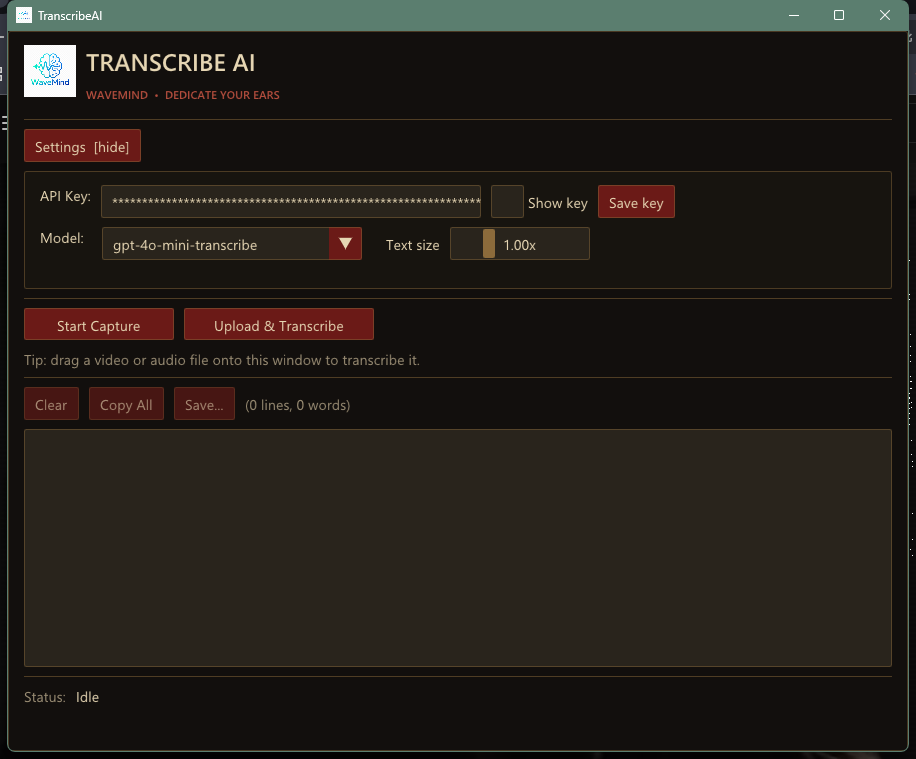
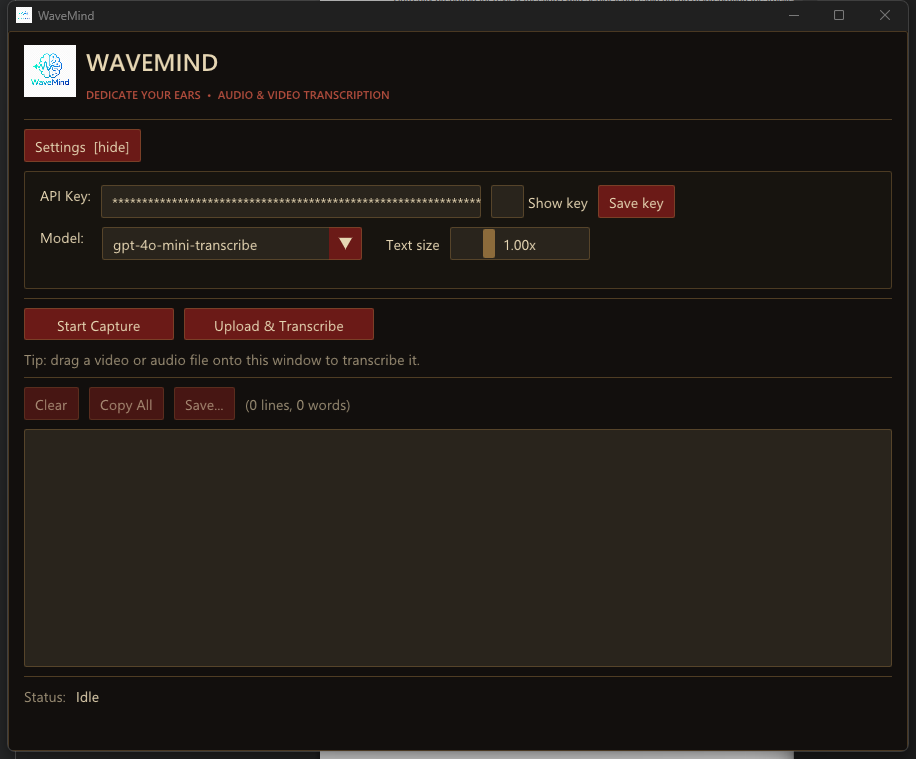
Rename app from TranscribeAI to WaveMind
- CMake project/target now builds WaveMind.exe
- Window title, in-app header and ImGui ids updated
- DPAPI key store moves to %APPDATA%\WaveMind\key.dat
- vcpkg manifest name, README, BUILD.md and screenshot updated

diff --git a/src/main.cpp b/src/main.cpp
@@ -395,7 +395,7 @@ int WINAPI WinMain(HINSTANCE, HINSTANCE, LPSTR, int) {
     glfwWindowHint(GLFW_CONTEXT_VERSION_MINOR, 3);
     glfwWindowHint(GLFW_OPENGL_PROFILE, GLFW_OPENGL_CORE_PROFILE);
 
-    GLFWwindow* window = glfwCreateWindow(900, 720, "TranscribeAI", nullptr, nullptr);
+    GLFWwindow* window = glfwCreateWindow(900, 720, "WaveMind", nullptr, nullptr);
     if (!window) {
         glfwTerminate();
         curl_global_cleanup();
@@ -525,7 +525,7 @@ int WINAPI WinMain(HINSTANCE, HINSTANCE, LPSTR, int) {
         ImGuiViewport* vp = ImGui::GetMainViewport();
         ImGui::SetNextWindowPos(vp->WorkPos);
         ImGui::SetNextWindowSize(vp->WorkSize);
-        ImGui::Begin("TranscribeAI", nullptr,
+        ImGui::Begin("WaveMind", nullptr,
                      ImGuiWindowFlags_NoDecoration |
                      ImGuiWindowFlags_NoMove |
                      ImGuiWindowFlags_NoSavedSettings |
@@ -541,11 +541,11 @@ int WINAPI WinMain(HINSTANCE, HINSTANCE, LPSTR, int) {
             }
             ImGui::BeginGroup();
             if (font_title) ImGui::PushFont(font_title);
-            ImGui::TextUnformatted("TRANSCRIBE AI");
+            ImGui::TextUnformatted("WAVEMIND");
             if (font_title) ImGui::PopFont();
             if (font_sub) ImGui::PushFont(font_sub);
             ImGui::PushStyleColor(ImGuiCol_Text, ImVec4(0.70f, 0.30f, 0.24f, 1.0f));
-            ImGui::TextUnformatted("WAVEMIND  \xE2\x80\xA2  DEDICATE YOUR EARS");
+            ImGui::TextUnformatted("DEDICATE YOUR EARS  \xE2\x80\xA2  AUDIO & VIDEO TRANSCRIPTION");
             ImGui::PopStyleColor();
             if (font_sub) ImGui::PopFont();
             ImGui::EndGroup();

diff --git a/src/key_store.cpp b/src/key_store.cpp
@@ -11,7 +11,7 @@ namespace KeyStore {
 
 namespace {
 
-// Resolve %APPDATA%\TranscribeAI\key.dat as a filesystem::path, creating the
+// Resolve %APPDATA%\WaveMind\key.dat as a filesystem::path, creating the
 // folder if needed. Keeping it as a path (not a narrow string) means fstream
 // opens it correctly even when the user profile contains non-ASCII characters.
 std::expected<std::filesystem::path, std::string> resolve_key_path() {
@@ -19,7 +19,7 @@ std::expected<std::filesystem::path, std::string> resolve_key_path() {
     if (FAILED(SHGetKnownFolderPath(FOLDERID_RoamingAppData, 0, nullptr, &appdata_w))) {
         return std::unexpected("Failed to resolve the APPDATA folder");
     }
-    std::filesystem::path dir = std::filesystem::path(appdata_w) / L"TranscribeAI";
+    std::filesystem::path dir = std::filesystem::path(appdata_w) / L"WaveMind";
     CoTaskMemFree(appdata_w);
 
     std::error_code ec;
@@ -52,7 +52,7 @@ std::expected<void, std::string> save(const std::string& plaintext) {
 
     DATA_BLOB output{};
     // dwFlags = 0 selects user-scope encryption: only this Windows account can decrypt.
-    if (!CryptProtectData(&input, L"TranscribeAI API Key", nullptr, nullptr, nullptr,
+    if (!CryptProtectData(&input, L"WaveMind API Key", nullptr, nullptr, nullptr,
                           0, &output)) {
         return std::unexpected("CryptProtectData failed: " + std::to_string(GetLastError()));
     }

diff --git a/src/key_store.h b/src/key_store.h
@@ -3,7 +3,7 @@
 #include <string>
 
 // Encrypt and persist the API key using Windows DPAPI.
-// Stored at %APPDATA%\TranscribeAI\key.dat (user-scope encryption).
+// Stored at %APPDATA%\WaveMind\key.dat (user-scope encryption).
 namespace KeyStore {
 
 // Returns the full path to the key file, creating the directory if needed.

diff --git a/BUILD.md b/BUILD.md
@@ -1,6 +1,6 @@
-# Building TranscribeAI
+# Building WaveMind
 
-This produces a single self-contained `TranscribeAI.exe` (no external DLLs).
+This produces a single self-contained `WaveMind.exe` (no external DLLs).
 
 ## Prerequisites
 
@@ -29,13 +29,13 @@ The dependencies (`imgui[glfw-binding,opengl3-binding]`, `glfw3`, `curl`,
 
 ```powershell
 $env:VCPKG_ROOT = "C:\dev\vcpkg"
-cd C:\dev\TranscribeAI
+cd C:\dev\WaveMind
 
 cmake --preset windows-msvc-release
 cmake --build --preset release
 ```
 
-Output: `build/release/Release/TranscribeAI.exe` (verified ~2 MB, links only
+Output: `build/release/Release/WaveMind.exe` (verified ~2 MB, links only
 Windows system DLLs).
 
 ### Debug build
@@ -43,12 +43,12 @@ Windows system DLLs).
 ```powershell
 cmake --preset windows-msvc-debug
 cmake --build --preset debug
-# Output: build/debug/Debug/TranscribeAI.exe
+# Output: build/debug/Debug/WaveMind.exe
 ```
 
 ## Usage
 
-1. Launch `TranscribeAI.exe`. The Settings panel slides open on startup.
+1. Launch `WaveMind.exe`. The Settings panel slides open on startup.
 2. Paste your OpenAI API key, then click **Save key** (encrypted with Windows
    DPAPI under your user account).
 3. Pick a model (default `gpt-4o-mini-transcribe`).
@@ -56,5 +56,5 @@ cmake --build --preset debug
    appear and auto-scroll.
 5. Click **Stop** to end the session.
 
-The key is stored encrypted at `%APPDATA%\TranscribeAI\key.dat` and is decrypted
+The key is stored encrypted at `%APPDATA%\WaveMind\key.dat` and is decrypted
 and prefilled automatically on the next launch.

diff --git a/README.md b/README.md
@@ -1,6 +1,6 @@
 <div align="center">
   <img src="assets/wavemindlogo.png" alt="WaveMind" width="140" />
-  <h1>WaveMind / TranscribeAI</h1>
+  <h1>WaveMind</h1>
   <p><b>WAVEMIND &bull; DEDICATE YOUR EARS</b></p>
   <p>A wee Windows desktop app that listens to whatever your PC is playing, or to any video/audio file you throw at it, and turns it into a live transcript using the OpenAI API.</p>
 </div>
@@ -51,7 +51,7 @@ flowchart TD
     OAI -->|text| Q["Transcript queue"]
     Q --> UI["ImGui UI<br/>selectable transcript"]
 
-    KS["DPAPI key store<br/>%APPDATA%/TranscribeAI/key.dat"] --> TR
+    KS["DPAPI key store<br/>%APPDATA%/WaveMind/key.dat"] --> TR
     UI -.->|save key| KS
 ```
 
@@ -98,7 +98,7 @@ Stopping is non blocking too. When you hit Stop, the UI flips a flag and the dev
 | Image loading | stb_image (for the embedded logo) |
 | Key storage | Windows DPAPI (`CryptProtectData` / `CryptUnprotectData`) |
 
-Everything is statically linked into one `TranscribeAI.exe` whose only dependencies are standard Windows system DLLs.
+Everything is statically linked into one `WaveMind.exe` whose only dependencies are standard Windows system DLLs.
 
 ## Project structure
 
@@ -141,7 +141,7 @@ cmake --preset windows-msvc-release
 cmake --build --preset release
 ```
 
-The result is `build/release/Release/TranscribeAI.exe`. There is more detail in [BUILD.md](BUILD.md), including the one gotcha (the vcpkg bundled inside Visual Studio is not a git repo, so use a real clone).
+The result is `build/release/Release/WaveMind.exe`. There is more detail in [BUILD.md](BUILD.md), including the one gotcha (the vcpkg bundled inside Visual Studio is not a git repo, so use a real clone).
 
 ## Using it
 